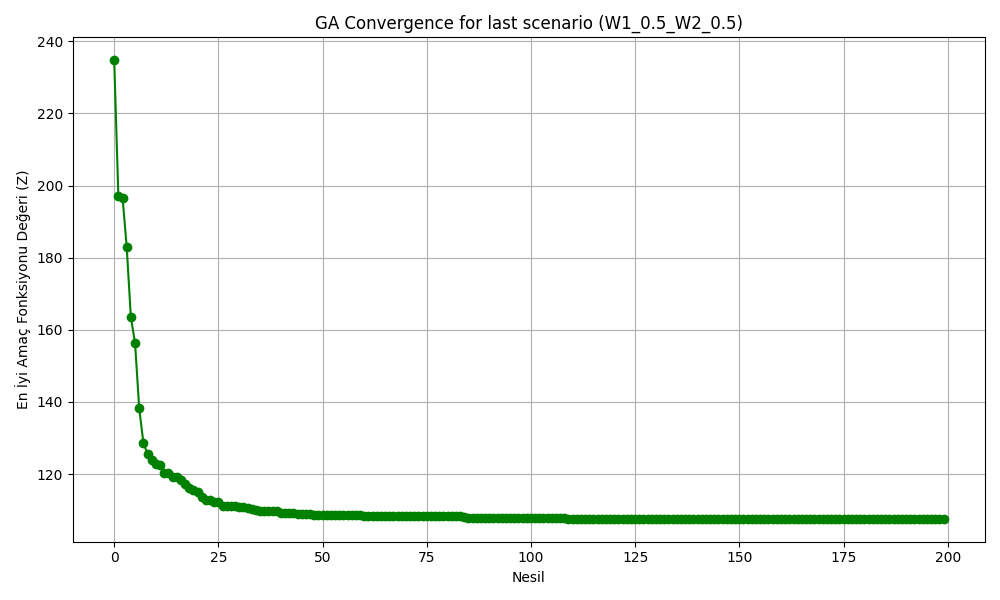
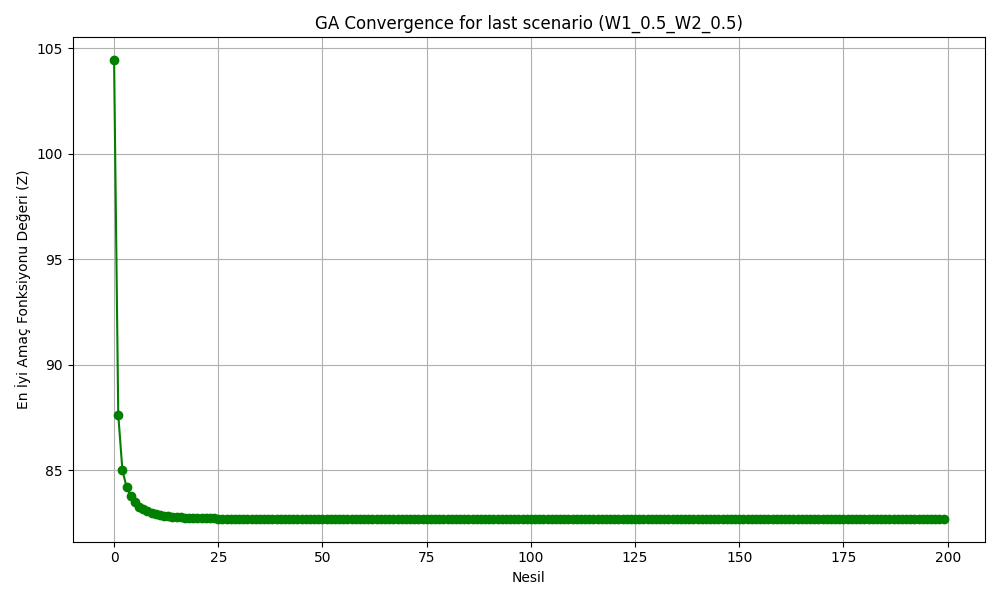
obj func düzeltildi.

diff --git a/for_experiments.py b/for_experiments.py
@@ -64,22 +64,41 @@ def select(population, fitnesses):
 
 def repair_individual(x, bounds):
     x = np.array([np.clip(val, bounds[i][0], bounds[i][1]) for i, val in enumerate(x)])
-    total = np.sum(x)
-    if total > TOTAL_LIMIT:
-        # Avoid division by zero if total is zero (though unlikely if TOTAL_LIMIT > 0)
-        if total > 1e-9:
-            x = x * (TOTAL_LIMIT / total)
-        else:  # If total is near zero and exceeds TOTAL_LIMIT (impossible if TOTAL_LIMIT > 0)
-            x = np.zeros_like(x)  # Or handle as an error/special case
 
+    # Get population and existing green area data
+    df = pd.read_csv("data_processed/birlesik_ilce_verisi.csv")
+    GA_real = df["alan_metrekare"].values.astype(float)
+    P_real = df["Nufus"].values.astype(float)
+
+    # En az kişi başı 2 m² yeşil alan şartı
+    min_green_per_person = 2.0  # m²
+    min_total_green = min_green_per_person * P_real
+    current_total_green = GA_real + x
+
+    deficit = min_total_green - current_total_green
+    deficit[deficit < 0] = 0  # Negatif farkları sıfırla
+
+    x += deficit  # Eksik olan yeşil alanı tamamla
+
+    # Bütçeyi tamamen kullanmak için zorla ölçekle
+    total = np.sum(x)
+    if total > 1e-9:
+        x = x * (TOTAL_LIMIT / total)
+    else:
+        x = np.zeros_like(x)
+
+    # Bounds sınırını yeniden kontrol et
     x = np.array([np.clip(val, bounds[i][0], bounds[i][1]) for i, val in enumerate(x)])
-    if np.sum(x) > TOTAL_LIMIT:
-        current_sum = np.sum(x)
-        if current_sum > 1e-9:  # Avoid division by zero
-            x = x * (TOTAL_LIMIT / current_sum)
-        else:
-            x = np.zeros_like(x)
+
+    # Tekrar toplam kontrolü (bounds daraltmış olabilir)
+    total = np.sum(x)
+    if total > 1e-9:
+        x = x * (TOTAL_LIMIT / total)
+    else:
+        x = np.zeros_like(x)
+
     return x
+
 
 
 def run_ga(bounds, objective_func_ga):  # Renamed to avoid conflict
@@ -290,7 +309,7 @@ def main():
         x_norm = x_new_green_area_real / (GA_max + 1e-9)
         total_norm_green_area = GA_norm + x_norm
 
-        current_S_norm = objective_params['S_norm_current']  # Use S_norm from the dictionary
+        current_S_norm = objective_params['S_norm_current']
 
         performance_term = (current_S_norm * P_norm) / (total_norm_green_area + 1e-6)
         base = np.sum(performance_term)
@@ -309,9 +328,18 @@ def main():
         else:
             norm_initial_gpp = np.zeros_like(initial_green_per_person_real)
 
+        # ⚠ Yeni: kişi başı 1 m² altı ilçelere ceza
+        gpp_deficit = np.maximum(1.0 - green_per_person_real, 0)
+        penalty_min_gpp = np.sum(gpp_deficit)
+
+        # 🎯 Mevcut: adalete dayalı yönlendirme
         fairness_penalty = np.sum(x_new_green_area_real * norm_initial_gpp)
+
+        # 💡 Ağırlık katsayıları
         penalty_coefficient = 0.000005
-        return base + penalty_coefficient * fairness_penalty
+        min_gpp_penalty_coeff = 0.0001  # (isteğe bağlı olarak değiştirilebilir)
+
+        return base + penalty_coefficient * fairness_penalty + min_gpp_penalty_coeff * penalty_min_gpp
 
     #for best scores
     score_rows = []

diff --git a/yeni_main_2.1.py b/yeni_main_2.1.py
@@ -300,7 +300,7 @@ def main():
         x_norm = x_new_green_area_real / (GA_max + 1e-9)
         total_norm_green_area = GA_norm + x_norm
 
-        current_S_norm = objective_params['S_norm_current']  # Use S_norm from the dictionary
+        current_S_norm = objective_params['S_norm_current']
 
         performance_term = (current_S_norm * P_norm) / (total_norm_green_area + 1e-6)
         base = np.sum(performance_term)
@@ -319,9 +319,18 @@ def main():
         else:
             norm_initial_gpp = np.zeros_like(initial_green_per_person_real)
 
+        # ⚠ Yeni: kişi başı 1 m² altı ilçelere ceza
+        gpp_deficit = np.maximum(1.0 - green_per_person_real, 0)
+        penalty_min_gpp = np.sum(gpp_deficit)
+
+        # 🎯 Mevcut: adalete dayalı yönlendirme
         fairness_penalty = np.sum(x_new_green_area_real * norm_initial_gpp)
+
+        # 💡 Ağırlık katsayıları
         penalty_coefficient = 0.000005
-        return base + penalty_coefficient * fairness_penalty
+        min_gpp_penalty_coeff = 0.0001  # (isteğe bağlı olarak değiştirilebilir)
+
+        return base + penalty_coefficient * fairness_penalty + min_gpp_penalty_coeff * penalty_min_gpp
 
     #for best scores
     score_rows = []

diff --git a/yeni_map/main.py b/yeni_map/main.py
@@ -5,7 +5,7 @@ import unicodedata
 app = Flask(__name__)
 
 # CSV dosyasını yükle
-df = pd.read_csv("new_optimum_yesil_alan_sonuclari_SCENARIOS.csv")
+df = pd.read_csv("../outputs/new_optimum_yesil_alan_sonuclari_SCENARIOS.csv")
 
 # İlçe adlarını normalize eden fonksiyon
 def normalize_name(name):
